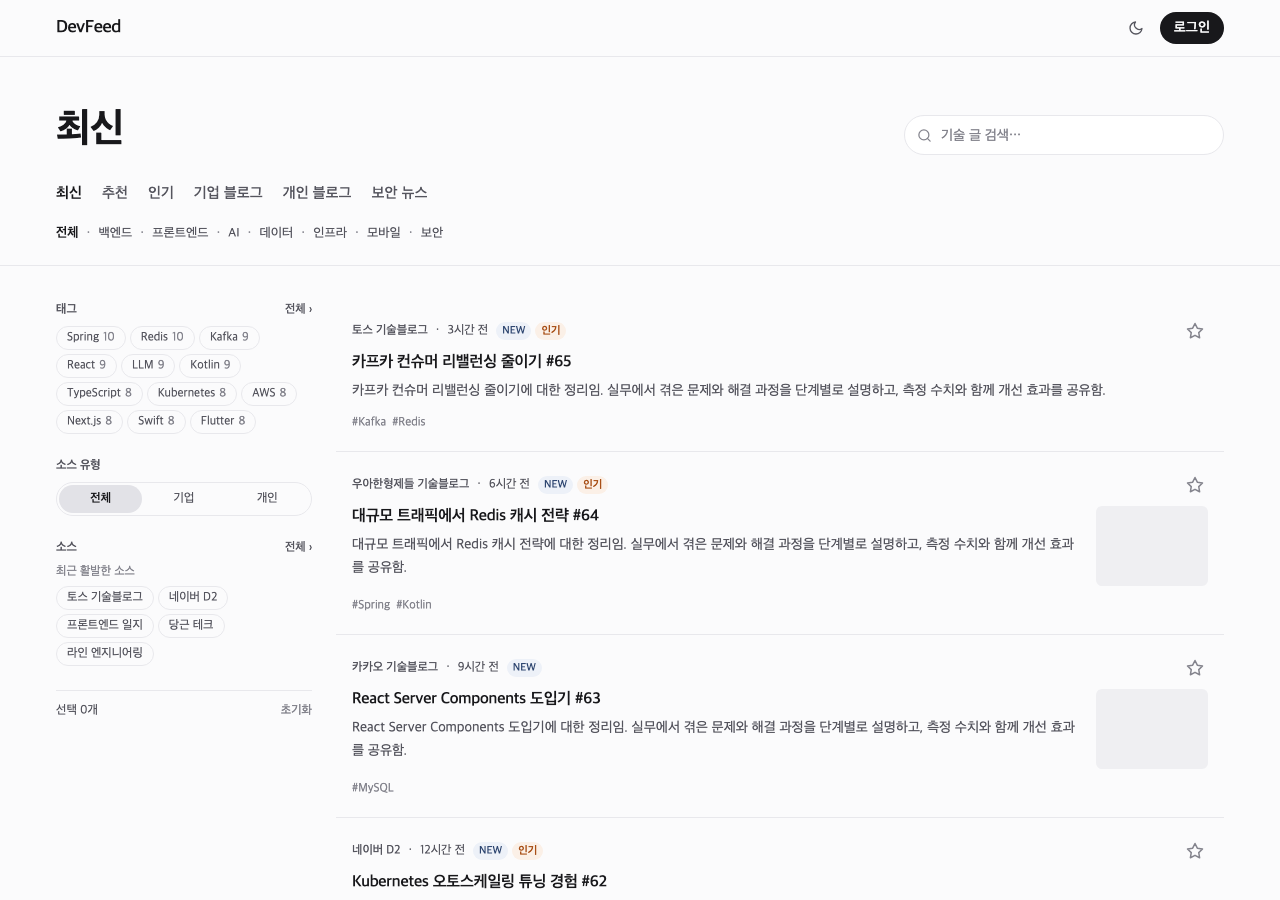
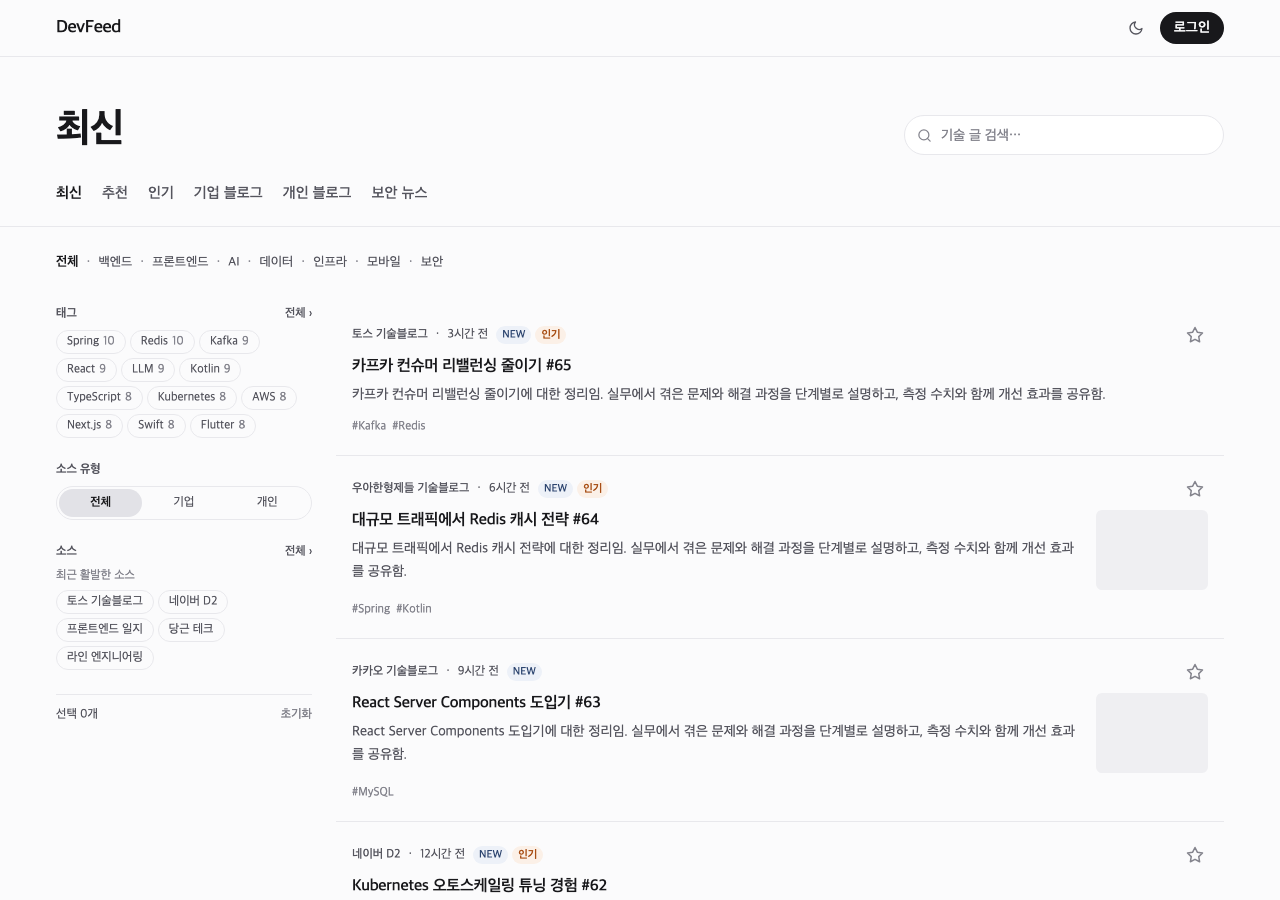
fix(client): place divider right below feed tabs, field tabs below it

diff --git a/client/src/components/layout/AppLayout.tsx b/client/src/components/layout/AppLayout.tsx
@@ -2,7 +2,7 @@ import { Outlet, useLocation } from 'react-router';
 import { ErrorBoundary } from '@/components/common/ErrorBoundary';
 import { AppFooter } from './AppFooter';
 import { AppHeader } from './AppHeader';
-import { heroTitle, PageHero } from './FeedTabs';
+import { FieldTabs, heroTitle, isFieldTab, PageHero } from './FeedTabs';
 
 export function AppLayout() {
   const { pathname } = useLocation();
@@ -12,6 +12,11 @@ export function AppLayout() {
       <AppHeader showSearchLink={!title} />
       {title && <PageHero title={title} />}
       <main className="mx-auto w-full max-w-[1200px] flex-1 px-4 py-6 lg:py-8">
+        {isFieldTab(pathname) && (
+          <div className="-mt-2 mb-5 lg:-mt-3 lg:mb-6">
+            <FieldTabs />
+          </div>
+        )}
         <ErrorBoundary resetKey={pathname}>
           <Outlet />
         </ErrorBoundary>

diff --git a/client/src/components/layout/FeedTabs.tsx b/client/src/components/layout/FeedTabs.tsx
@@ -140,17 +140,15 @@ export function FieldTabs() {
 }
 
 export function PageHero({ title }: { title: string }) {
-  const { pathname } = useLocation();
   return (
     <div className="border-b border-line">
-      <div className="mx-auto max-w-[1200px] px-4 pb-4 pt-5 lg:pt-12">
+      <div className="mx-auto max-w-[1200px] px-4 pb-3 pt-5 lg:pt-12">
         <div className="flex flex-col gap-4 lg:flex-row lg:items-end lg:justify-between">
           <SearchBox className="w-full lg:order-last lg:w-80" />
           <h1 className="text-[28px] font-bold leading-tight tracking-[-0.02em] text-fg lg:text-[40px]">{title}</h1>
         </div>
-        <div className="mt-3 space-y-1 lg:mt-5">
+        <div className="mt-3 lg:mt-5">
           <FeedTabs />
-          {isFieldTab(pathname) && <FieldTabs />}
         </div>
       </div>
     </div>

diff --git a/client/README.md b/client/README.md
@@ -130,7 +130,7 @@ App
   - 탭 이동 시 분야(`?field=`)는 유지, 태그·소스 필터는 초기화
 - 2단 분야 탭 `FieldTabs`: 13px 글자 탭, `·`으로 구분하고 1단과 같은 색 규칙. 항목: 전체·백엔드·프론트엔드·AI·데이터·인프라·모바일·보안 (`lib/fields.ts`, API `field=BACKEND` 등)
   - 최신·인기·기업·개인에서만 보임. 잘못된 `field` 값은 전체로 해석해 요청에 넣지 않음 (서버는 400)
-  - hero 안에 있어 스크롤하면 사라짐. sticky 헤더는 56px라 사이드바 높이에 여유가 있음 (1280×720 최대 선택에서도 사이드바 스크롤 없음)
+  - 위치: 1단 탭 아래 1px 구분선 밑, 본문(`main`) 맨 위 줄 (022 후속). 구분선은 탭 화면 6개 모두 1단 탭 바로 아래이고, 분야 탭과 본문 사이는 여백으로만 나눔. 스크롤하면 사라짐. sticky 헤더는 56px라 사이드바 높이에 여유가 있음 (1280×720 최대 선택에서도 사이드바 스크롤 없음)
   - sticky 헤더 높이는 `--header-h` CSS 변수로 측정해 사이드바 `top`·`max-height`에 씀
 - 기업·개인 탭(S-13): `HomePage`에 `sourceType` 고정. 유형 세그먼트 숨김, 소스 선택 창·빠른 소스 칩은 해당 유형만 (`FilterBindings.sourceScope`), URL `sourceType`은 무시
 - 보안 뉴스(S-14) `features/security/`: `GET /security-news` 커서 무한 스크롤, 날짜 구분선(오늘·어제·M월 D일), `[전체|국내|해외]`(`?region=domestic|overseas`), 출처 칩 사이드바(`GET /security-news/sources`, 모바일은 S-12 시트)

diff --git a/docs/discussions/022-visual-redesign-and-theme.md b/docs/discussions/022-visual-redesign-and-theme.md
@@ -150,3 +150,7 @@ Java  React …     카프카 컨슈머 리밸런싱 줄이기
   - 구분선 위치가 화면마다 달라지지 않게, 탭 화면 6개 모두 구분선 = 1단 탭 바로 아래
   - 360px도 같은 순서
 - 후속: client - 수정·`build:web` 배포 후 알림 / pm - 03 반영 (완료), 공개 페이지 확인
+
+### client (구분선 위치 수정, 2026-11-21)
+- 구분선을 탭 화면 6개 모두 1단 탭 바로 아래로 옮겼음. 분야 탭은 hero에서 빼서 본문(`main`) 맨 위 줄에 둠. 분야 탭 아래 구분선은 없고 여백만 둠. 추천·보안 뉴스는 변경 없음
+- 1280·360 캡처에서 순서 확인함 (탭 → 선 → 분야 → 필터·목록). 가로 넘침 0, 1280×720·1440×900 사이드바 스크롤 없음, 테스트 111/111. `build:web` 배포 완료
